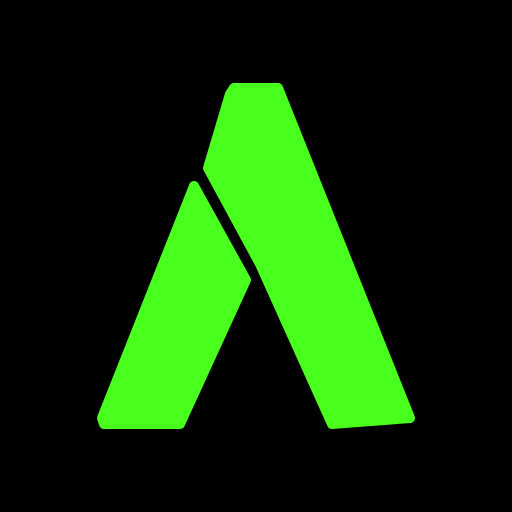
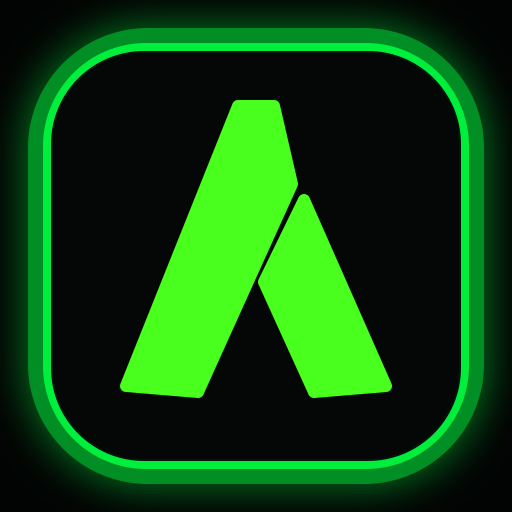
feat(ui): update branding and add CTA modal
Replace bolt icons with brand emblem in tickers and banners, and introduce a consistent CTA modal across core pages to improve conversion.

diff --git a/index.html b/index.html
@@ -90,7 +90,9 @@
 <body>
     <!-- Live Lead Ticker -->
     <div id="lead-ticker" class="lead-ticker">
-        <div class="ticker-icon"><i class="fas fa-bolt"></i></div>
+        <div class="ticker-icon ticker-logo-icon">
+            <img src="/logo-premium.svg" alt="ASSURLEAD Logo" class="logo-emblem" width="28" height="28">
+        </div>
         <div class="ticker-content">
             <div class="ticker-text" id="ticker-name">Demande de devis transmise via Google</div>
             <div class="ticker-subtext" id="ticker-meta">Casablanca • à l'instant</div>
@@ -411,7 +413,12 @@
                 </button>
                 <div class="promo-banner-inner">
                     <div class="promo-left-col">
-                        <span class="promo-badge" data-i18n="promo_badge">OFFRE SPÉCIALE</span>
+                        <div class="promo-logo-row">
+                            <div class="promo-logo-icon">
+                                <img src="/logo-premium.svg" alt="ASSURLEAD Logo" class="logo-emblem" width="26" height="26">
+                            </div>
+                            <span class="promo-badge" data-i18n="promo_badge">OFFRE SPÉCIALE</span>
+                        </div>
                         <h3 class="promo-title" data-i18n="promo_title">CRÉATION DE SITES<br>INTERNET<br>PROFESSIONNELS</h3>
                         <p class="promo-desc" data-i18n="promo_desc">Nous créons des sites modernes, ultra-rapides et pensés dès la première ligne de code pour inspirer confiance et convertir vos visiteurs en demandes de devis.</p>
                         <div class="promo-pricing-action">
@@ -795,9 +802,14 @@
     <div id="cta-modal" class="modal">
         <div class="modal-backdrop"></div>
         <div class="modal-content">
-            <button id="close-modal" class="close-btn"><i class="fas fa-times"></i></button>
+            <button id="close-modal" class="close-btn" aria-label="Fermer"><i class="fas fa-times"></i></button>
             <div class="modal-inner">
-                <div class="modal-icon"><i class="fas fa-bolt"></i></div>
+                <div class="modal-logo-header">
+                    <div class="logo-icon modal-logo-icon">
+                        <img src="/logo-premium.svg" alt="ASSURLEAD Logo" class="logo-emblem" width="52" height="52">
+                    </div>
+                    <span class="logo-text modal-logo-brand">ASSUR<span class="neon">LEAD</span><span class="logo-text">COM</span></span>
+                </div>
                 <span class="badge" data-i18n="modal_badge">Audit de Visibilité Google</span>
                 <h2 data-i18n="modal_title">Multipliez vos Devis <span class="neon">grâce au SEO local.</span></h2>
                 <p data-i18n="modal_p">Réservez votre <strong>audit de visibilité gratuit de 15 minutes</strong> pour analyser votre présence sur Google et déployer un <span class="neon">moteur d'acquisition de leads organiques</span> pour votre activité au Maroc.</p>

diff --git a/realisation-el-omrani.html b/realisation-el-omrani.html
@@ -38,7 +38,9 @@
 
     <!-- Live Lead Ticker -->
     <div id="lead-ticker" class="lead-ticker">
-        <div class="ticker-icon"><i class="fas fa-bolt"></i></div>
+        <div class="ticker-icon ticker-logo-icon">
+            <img src="/logo-premium.svg" alt="ASSURLEAD Logo" class="logo-emblem" width="28" height="28">
+        </div>
         <div class="ticker-content">
             <div class="ticker-text" id="ticker-name">Assurances El Omrani vient de capter un lead Auto</div>
             <div class="ticker-subtext" id="ticker-meta">Casablanca • à l'instant</div>
@@ -365,6 +367,27 @@
 
         </div>
     </main>
+
+    <!-- CTA Modal -->
+    <div id="cta-modal" class="modal">
+        <div class="modal-backdrop"></div>
+        <div class="modal-content">
+            <button id="close-modal" class="close-btn" aria-label="Fermer"><i class="fas fa-times"></i></button>
+            <div class="modal-inner">
+                <div class="modal-logo-header">
+                    <div class="logo-icon modal-logo-icon">
+                        <img src="/logo-premium.svg" alt="ASSURLEAD Logo" class="logo-emblem" width="52" height="52">
+                    </div>
+                    <span class="logo-text modal-logo-brand">ASSUR<span class="neon">LEAD</span><span class="logo-text">COM</span></span>
+                </div>
+                <span class="badge" data-i18n="modal_badge">Audit de Visibilité Google</span>
+                <h2 data-i18n="modal_title">Multipliez vos Devis <span class="neon">grâce au SEO local.</span></h2>
+                <p data-i18n="modal_p">Réservez votre <strong>audit de visibilité gratuit de 15 minutes</strong> pour analyser votre présence sur Google et déployer un <span class="neon">moteur d'acquisition de leads organiques</span> pour votre activité au Maroc.</p>
+                <a href="https://wa.me/212707573162?text=Bonjour,%20je%20souhaite%20r%C3%A9server%20mon%20audit%20de%20visibilit%C3%A9%20Google%20gratuit" target="_blank" class="btn btn-primary full-width" data-i18n="modal_btn">Réserver mon Audit Gratuit</a>
+                <div class="modal-timer"><i class="fas fa-clock"></i> <span data-i18n="modal_timer">Plus que 3 créneaux cette semaine</span></div>
+            </div>
+        </div>
+    </div>
 
     <!-- Floating WhatsApp Widget -->
     <div id="chat-widget" class="chat-widget">

diff --git a/realisations.html b/realisations.html
@@ -38,7 +38,9 @@
 
     <!-- Live Lead Ticker -->
     <div id="lead-ticker" class="lead-ticker">
-        <div class="ticker-icon"><i class="fas fa-bolt"></i></div>
+        <div class="ticker-icon ticker-logo-icon">
+            <img src="/logo-premium.svg" alt="ASSURLEAD Logo" class="logo-emblem" width="28" height="28">
+        </div>
         <div class="ticker-content">
             <div class="ticker-text" id="ticker-name">Assurances El Omrani vient de capter un lead Auto</div>
             <div class="ticker-subtext" id="ticker-meta">Casablanca • à l'instant</div>
@@ -439,6 +441,27 @@
 
         </div>
     </main>
+
+    <!-- CTA Modal -->
+    <div id="cta-modal" class="modal">
+        <div class="modal-backdrop"></div>
+        <div class="modal-content">
+            <button id="close-modal" class="close-btn" aria-label="Fermer"><i class="fas fa-times"></i></button>
+            <div class="modal-inner">
+                <div class="modal-logo-header">
+                    <div class="logo-icon modal-logo-icon">
+                        <img src="/logo-premium.svg" alt="ASSURLEAD Logo" class="logo-emblem" width="52" height="52">
+                    </div>
+                    <span class="logo-text modal-logo-brand">ASSUR<span class="neon">LEAD</span><span class="logo-text">COM</span></span>
+                </div>
+                <span class="badge" data-i18n="modal_badge">Audit de Visibilité Google</span>
+                <h2 data-i18n="modal_title">Multipliez vos Devis <span class="neon">grâce au SEO local.</span></h2>
+                <p data-i18n="modal_p">Réservez votre <strong>audit de visibilité gratuit de 15 minutes</strong> pour analyser votre présence sur Google et déployer un <span class="neon">moteur d'acquisition de leads organiques</span> pour votre activité au Maroc.</p>
+                <a href="https://wa.me/212707573162?text=Bonjour,%20je%20souhaite%20r%C3%A9server%20mon%20audit%20de%20visibilit%C3%A9%20Google%20gratuit" target="_blank" class="btn btn-primary full-width" data-i18n="modal_btn">Réserver mon Audit Gratuit</a>
+                <div class="modal-timer"><i class="fas fa-clock"></i> <span data-i18n="modal_timer">Plus que 3 créneaux cette semaine</span></div>
+            </div>
+        </div>
+    </div>
 
     <!-- Floating WhatsApp Widget -->
     <div id="chat-widget" class="chat-widget">

diff --git a/approche.html b/approche.html
@@ -29,7 +29,9 @@
 
     <!-- Live Lead Ticker -->
     <div id="lead-ticker" class="lead-ticker">
-        <div class="ticker-icon"><i class="fas fa-bolt"></i></div>
+        <div class="ticker-icon ticker-logo-icon">
+            <img src="/logo-premium.svg" alt="ASSURLEAD Logo" class="logo-emblem" width="28" height="28">
+        </div>
         <div class="ticker-content">
             <div class="ticker-text" id="ticker-name">Youssef K. vient de demander un devis Santé</div>
             <div class="ticker-subtext" id="ticker-meta">Casablanca • à l'instant</div>
@@ -210,6 +212,27 @@
 
         </div>
     </main>
+
+    <!-- CTA Modal -->
+    <div id="cta-modal" class="modal">
+        <div class="modal-backdrop"></div>
+        <div class="modal-content">
+            <button id="close-modal" class="close-btn" aria-label="Fermer"><i class="fas fa-times"></i></button>
+            <div class="modal-inner">
+                <div class="modal-logo-header">
+                    <div class="logo-icon modal-logo-icon">
+                        <img src="/logo-premium.svg" alt="ASSURLEAD Logo" class="logo-emblem" width="52" height="52">
+                    </div>
+                    <span class="logo-text modal-logo-brand">ASSUR<span class="neon">LEAD</span><span class="logo-text">COM</span></span>
+                </div>
+                <span class="badge" data-i18n="modal_badge">Audit de Visibilité Google</span>
+                <h2 data-i18n="modal_title">Multipliez vos Devis <span class="neon">grâce au SEO local.</span></h2>
+                <p data-i18n="modal_p">Réservez votre <strong>audit de visibilité gratuit de 15 minutes</strong> pour analyser votre présence sur Google et déployer un <span class="neon">moteur d'acquisition de leads organiques</span> pour votre activité au Maroc.</p>
+                <a href="https://wa.me/212707573162?text=Bonjour,%20je%20souhaite%20r%C3%A9server%20mon%20audit%20de%20visibilit%C3%A9%20Google%20gratuit" target="_blank" class="btn btn-primary full-width" data-i18n="modal_btn">Réserver mon Audit Gratuit</a>
+                <div class="modal-timer"><i class="fas fa-clock"></i> <span data-i18n="modal_timer">Plus que 3 créneaux cette semaine</span></div>
+            </div>
+        </div>
+    </div>
 
     <!-- Floating WhatsApp Widget -->
     <div id="chat-widget" class="chat-widget">

diff --git a/processus.html b/processus.html
@@ -29,7 +29,9 @@
 
     <!-- Live Lead Ticker -->
     <div id="lead-ticker" class="lead-ticker">
-        <div class="ticker-icon"><i class="fas fa-bolt"></i></div>
+        <div class="ticker-icon ticker-logo-icon">
+            <img src="/logo-premium.svg" alt="ASSURLEAD Logo" class="logo-emblem" width="28" height="28">
+        </div>
         <div class="ticker-content">
             <div class="ticker-text" id="ticker-name">Youssef K. vient de demander un devis Santé</div>
             <div class="ticker-subtext" id="ticker-meta">Casablanca • à l'instant</div>
@@ -333,6 +335,27 @@
 
         </div>
     </main>
+
+    <!-- CTA Modal -->
+    <div id="cta-modal" class="modal">
+        <div class="modal-backdrop"></div>
+        <div class="modal-content">
+            <button id="close-modal" class="close-btn" aria-label="Fermer"><i class="fas fa-times"></i></button>
+            <div class="modal-inner">
+                <div class="modal-logo-header">
+                    <div class="logo-icon modal-logo-icon">
+                        <img src="/logo-premium.svg" alt="ASSURLEAD Logo" class="logo-emblem" width="52" height="52">
+                    </div>
+                    <span class="logo-text modal-logo-brand">ASSUR<span class="neon">LEAD</span><span class="logo-text">COM</span></span>
+                </div>
+                <span class="badge" data-i18n="modal_badge">Audit de Visibilité Google</span>
+                <h2 data-i18n="modal_title">Multipliez vos Devis <span class="neon">grâce au SEO local.</span></h2>
+                <p data-i18n="modal_p">Réservez votre <strong>audit de visibilité gratuit de 15 minutes</strong> pour analyser votre présence sur Google et déployer un <span class="neon">moteur d'acquisition de leads organiques</span> pour votre activité au Maroc.</p>
+                <a href="https://wa.me/212707573162?text=Bonjour,%20je%20souhaite%20r%C3%A9server%20mon%20audit%20de%20visibilit%C3%A9%20Google%20gratuit" target="_blank" class="btn btn-primary full-width" data-i18n="modal_btn">Réserver mon Audit Gratuit</a>
+                <div class="modal-timer"><i class="fas fa-clock"></i> <span data-i18n="modal_timer">Plus que 3 créneaux cette semaine</span></div>
+            </div>
+        </div>
+    </div>
 
     <!-- Floating WhatsApp Widget -->
     <div id="chat-widget" class="chat-widget">

diff --git a/diagnostic.html b/diagnostic.html
@@ -29,7 +29,9 @@
 
     <!-- Live Lead Ticker -->
     <div id="lead-ticker" class="lead-ticker">
-        <div class="ticker-icon"><i class="fas fa-bolt"></i></div>
+        <div class="ticker-icon ticker-logo-icon">
+            <img src="/logo-premium.svg" alt="ASSURLEAD Logo" class="logo-emblem" width="28" height="28">
+        </div>
         <div class="ticker-content">
             <div class="ticker-text" id="ticker-name">Ahmed B. vient de s'inscrire</div>
             <div class="ticker-subtext" id="ticker-meta">Casablanca • à l'instant</div>
@@ -206,6 +208,27 @@
 
         </div>
     </main>
+
+    <!-- CTA Modal -->
+    <div id="cta-modal" class="modal">
+        <div class="modal-backdrop"></div>
+        <div class="modal-content">
+            <button id="close-modal" class="close-btn" aria-label="Fermer"><i class="fas fa-times"></i></button>
+            <div class="modal-inner">
+                <div class="modal-logo-header">
+                    <div class="logo-icon modal-logo-icon">
+                        <img src="/logo-premium.svg" alt="ASSURLEAD Logo" class="logo-emblem" width="52" height="52">
+                    </div>
+                    <span class="logo-text modal-logo-brand">ASSUR<span class="neon">LEAD</span><span class="logo-text">COM</span></span>
+                </div>
+                <span class="badge" data-i18n="modal_badge">Audit de Visibilité Google</span>
+                <h2 data-i18n="modal_title">Multipliez vos Devis <span class="neon">grâce au SEO local.</span></h2>
+                <p data-i18n="modal_p">Réservez votre <strong>audit de visibilité gratuit de 15 minutes</strong> pour analyser votre présence sur Google et déployer un <span class="neon">moteur d'acquisition de leads organiques</span> pour votre activité au Maroc.</p>
+                <a href="https://wa.me/212707573162?text=Bonjour,%20je%20souhaite%20r%C3%A9server%20mon%20audit%20de%20visibilit%C3%A9%20Google%20gratuit" target="_blank" class="btn btn-primary full-width" data-i18n="modal_btn">Réserver mon Audit Gratuit</a>
+                <div class="modal-timer"><i class="fas fa-clock"></i> <span data-i18n="modal_timer">Plus que 3 créneaux cette semaine</span></div>
+            </div>
+        </div>
+    </div>
 
     <!-- Floating WhatsApp Widget -->
     <div id="chat-widget" class="chat-widget">

diff --git a/style.css b/style.css
@@ -2811,6 +2811,51 @@ footer .container {
     text-align: center;
 }
 
+.modal-logo-header {
+    display: flex;
+    flex-direction: column;
+    align-items: center;
+    justify-content: center;
+    margin-bottom: 24px;
+}
+
+.modal-logo-icon {
+    width: 64px;
+    height: 64px;
+    background: #000000;
+    border-radius: 14px;
+    overflow: hidden;
+    padding: 6px;
+    box-shadow: 0 0 24px rgba(0, 255, 65, 0.45);
+    border: 1px solid rgba(0, 255, 65, 0.35);
+    margin: 0 auto 12px;
+    display: flex;
+    align-items: center;
+    justify-content: center;
+    transition: transform 0.3s ease, box-shadow 0.3s ease;
+}
+
+.modal-logo-icon:hover {
+    transform: scale(1.06);
+    box-shadow: 0 0 32px rgba(0, 255, 65, 0.7);
+}
+
+.modal-logo-brand {
+    font-size: 22px;
+    font-weight: 900;
+    color: var(--white);
+    text-transform: uppercase;
+    letter-spacing: -0.04em;
+    display: inline-flex;
+    align-items: baseline;
+    line-height: 1;
+}
+
+.modal-logo-brand .neon {
+    color: var(--brand-neon);
+    text-shadow: 0 0 14px rgba(0, 255, 65, 0.45);
+}
+
 .modal-icon {
     width: 64px;
     height: 64px;
@@ -2881,6 +2926,51 @@ footer .container {
     display: flex;
     align-items: center;
     justify-content: center;
+}
+
+.ticker-icon.ticker-logo-icon {
+    border-radius: 8px;
+    background: #000000;
+    border: 1px solid rgba(0, 255, 65, 0.35);
+    box-shadow: 0 0 12px rgba(0, 255, 65, 0.35);
+    padding: 3px;
+    overflow: hidden;
+    flex-shrink: 0;
+}
+
+.ticker-icon.ticker-logo-icon img,
+.ticker-icon.ticker-logo-icon .logo-emblem {
+    width: 100%;
+    height: 100%;
+    object-fit: contain;
+    display: block;
+}
+
+.promo-logo-row {
+    display: flex;
+    align-items: center;
+    gap: 10px;
+    margin-bottom: 12px;
+}
+
+.promo-logo-icon {
+    width: 32px;
+    height: 32px;
+    background: #000000;
+    border-radius: 8px;
+    border: 1px solid rgba(0, 255, 65, 0.35);
+    box-shadow: 0 0 12px rgba(0, 255, 65, 0.35);
+    padding: 3px;
+    overflow: hidden;
+    flex-shrink: 0;
+}
+
+.promo-logo-icon img,
+.promo-logo-icon .logo-emblem {
+    width: 100%;
+    height: 100%;
+    object-fit: contain;
+    display: block;
 }
 
 .ticker-text {
